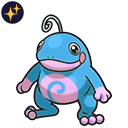
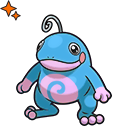
Updated star templates

Changed region(s): [[0.0, 0.0, 0.1875, 0.1875]]

diff --git a/README.md b/README.md
@@ -33,9 +33,11 @@ Contains the main collection of shiny Pokémon icons **without the shiny indicat
 Contains shiny indicator star templates that can be applied to any icon using [ImageMagick](https://imagemagick.org/) commands. Includes multiple star designs:
 
 ![Star template 1](star_templates/star1.png)
-![Star template 1.2](star_templates/star1_2.png)
 ![Star template 2](star_templates/star2.png)
 ![Star template 3](star_templates/star3.png)
+![Star template 4](star_templates/star4.png)
+![Star template 5](star_templates/star5.png)
+![Star template 5](star_templates/star6.png)
 
 ### `reference_textures/`
 
@@ -46,6 +48,7 @@ Contains the original BDSP icons, textures, and Pokémon Home icons used as refe
 ### Without Shiny Star (`shiny_icons/`)
 
 ![Shiny Charizard without star](shiny_icons/Generation1_0001-0151/pm0006_00_01.png)
+![Shiny Necrozma without star](shiny_icons/Generation7_0722-0809/pm0800_00_21.png)
 ![Shiny Pikachu without star](shiny_icons/Generation1_0001-0151/pm0025_03_11.png)
 ![Shiny Gengar without star](shiny_icons/Generation1_0001-0151/pm0094_01_01.png)
 ![Shiny Moltres without star](shiny_icons/Generation1_0001-0151/pm0146_01_21.png)
@@ -54,9 +57,11 @@ Contains the original BDSP icons, textures, and Pokémon Home icons used as refe
 ### With Shiny Star (`star_templates/examples/`)
 
 ![Politoed with star template 1](star_templates/examples/pm0186_00_01_star1.png)
-![Politoed with star template 1.2](star_templates/examples/pm0186_00_01_star1_2.png)
 ![Politoed with star template 2](star_templates/examples/pm0186_00_01_star2.png)
 ![Politoed with star template 3](star_templates/examples/pm0186_00_01_star3.png)
+![Politoed with star template 4](star_templates/examples/pm0186_00_01_star4.png)
+![Politoed with star template 5](star_templates/examples/pm0186_00_01_star5.png)
+![Politoed with star template 6](star_templates/examples/pm0186_00_01_star6.png)
 
 ## Adding Shiny Stars
 
